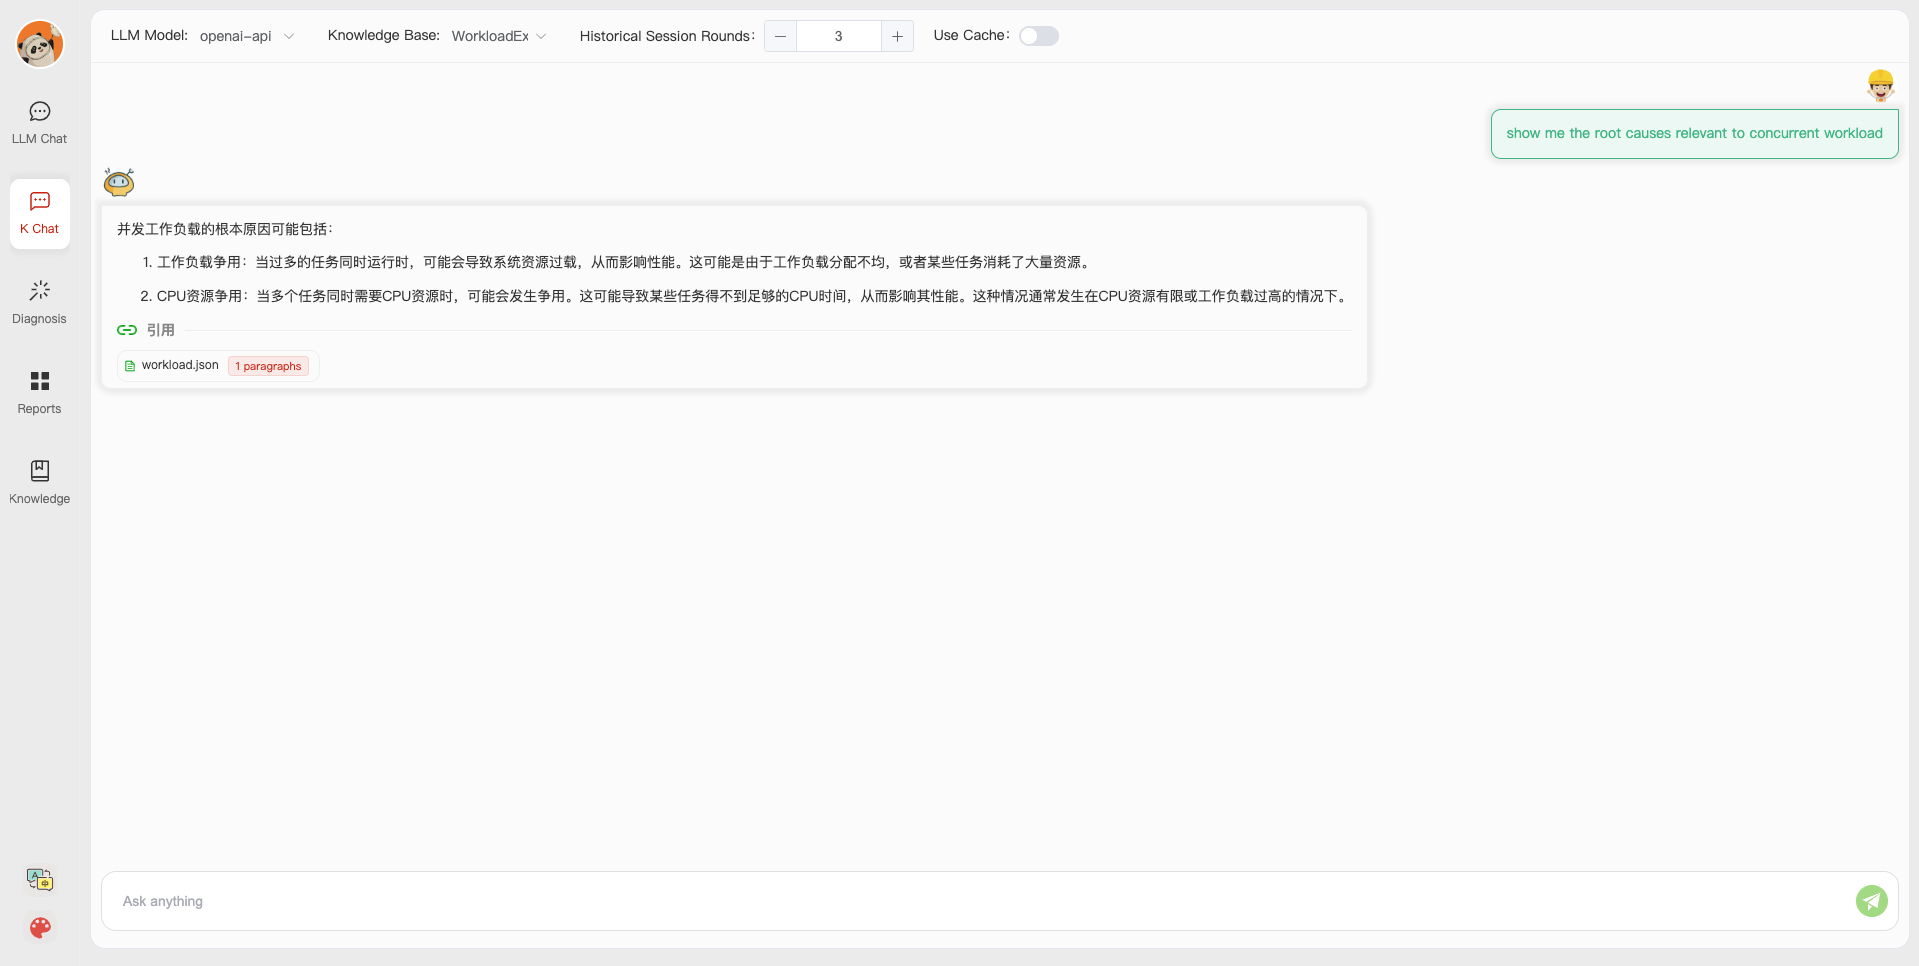
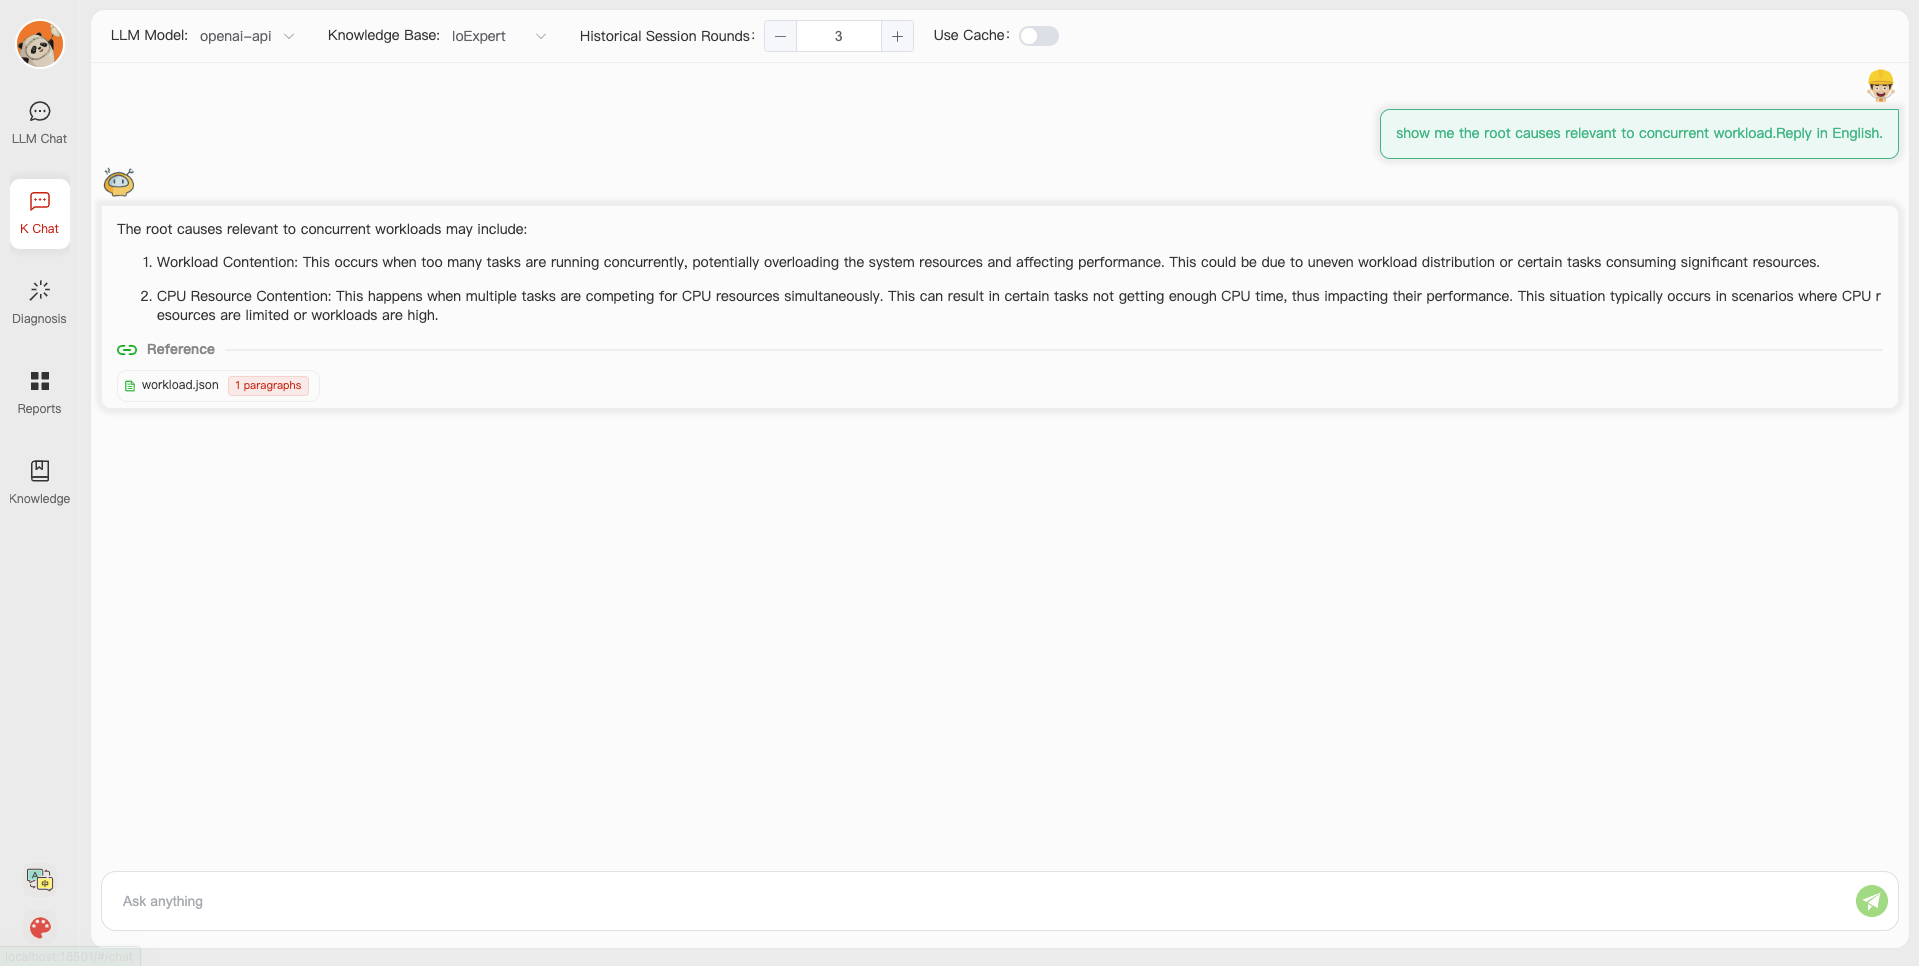
update en

Changed region(s): [[0.0615, 0.2174, 0.9838, 0.4037], [0.7379, 0.1242, 0.9838, 0.1553], [0.246, 0.0311, 0.2767, 0.0621]]

diff --git a/webui/src/components/KnowledgeChatItem.vue b/webui/src/components/KnowledgeChatItem.vue
@@ -6,7 +6,7 @@
       <!--      <span style="margin: 0 10px; color: red">abc</span>-->
       <!--      <span style="color: #2c59cb">sdada</span>-->
       <el-button v-if="isLast && message.cache" size="small" type="primary" plain style="margin-left: 10px; margin-top: 4px" @click="onIgnoreMessageCacheClick">
-        <el-icon style="margin-right: 6px" size="16"><MostlyCloudy /></el-icon>缓存有误，点击重新生成
+        <el-icon style="margin-right: 6px" size="16"><MostlyCloudy /></el-icon>{{ $t('IgnoreMessageCache') }}
       </el-button>
     </div>
     <div :class="'rowSC ' + roleClass">
@@ -17,7 +17,7 @@
             <div v-if="message.docsDetail.length > 0" class="rowSC" style="width: 100%; margin-bottom: 10px">
               <div class="rowSC" style="color: #888888; font-weight: bold; margin-right: 10px">
                 <img src="@/assets/knowledge_ chat_quote.png" style="width: 20px; margin-right: 10px" />
-                引用
+                {{ $t('ReferenceTitle') }}
               </div>
               <div style="height: 1.5px; flex: 1 1 0; background: #eeeeee" />
             </div>

diff --git a/webui/src/lang/zh.js b/webui/src/lang/zh.js
@@ -20,6 +20,8 @@ export default {
   setpTitle3: '报告展示',
   setpTip3: '圆桌讨论后，DBA会将讨论结果汇总，出具异常分析诊断报告。',
   KnowledgeListTitle: '知识库列表',
+  IgnoreMessageCache: '缓存有误，点击重新生成',
+  ReferenceTitle: '引用',
   KnowledgeCreteButtonTitle: '创建知识库',
   reportDrawerTitle: '分析报告',
   timeRangeSelectTip: '请选择异常发生时间',

diff --git a/webui/src/lang/en.js b/webui/src/lang/en.js
@@ -26,6 +26,8 @@ export default {
   Diagnosis: 'Diagnosis',
   KnowledgeListTitle: 'Knowledge',
   KnowledgeCreteButtonTitle: 'Create Knowledge',
+  IgnoreMessageCache: 'Cache error, click Regenerate',
+  ReferenceTitle: 'Reference',
   NoDiagnosisTask: 'No task is currently running. Please upload the abnormal file for diagnosis',
   SelectExceptionFile: 'Select Exception File',
   StopDiagnosis: 'Stop Diagnose',
